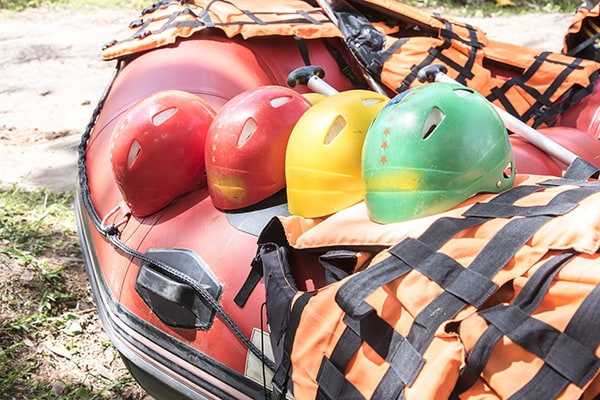
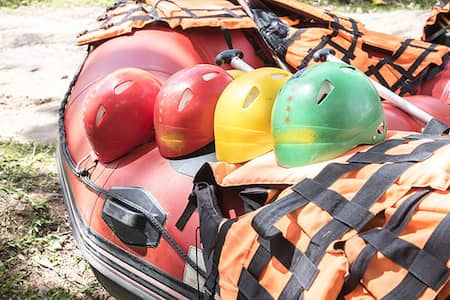
images size changes

diff --git a/wwr/about.html b/wwr/about.html
@@ -12,7 +12,7 @@
 
 <body>
     <header>
-        <img src="images/wwr_logo.png" alt="white water rafting logo">
+        <img src="images/wwr_logo.jpg" alt="white water rafting logo">
         <nav>
             <ul>
                 <li><a href="index.html">Home</a></li>
@@ -35,7 +35,7 @@
             <h2>History</h2>
             <div class="history-content">
                 <p>Lorem ipsum dolor sit amet consectetur adipisicing elit. Sunt obcaecati corrupti cum, unde, eos incidunt optio corporis ad magni accusantium possimus quis ratione minus voluptates ipsam ducimus, animi necessitatibus laborum?</p>
-                <img src="images/wwr_history.jpg" alt="Happy White Water warroirs">
+                <img src="images/history_img.jpg" alt="Happy White Water warroirs">
                 <p>Lorem bobob dolor sit amet, consectetur adipisicing elit. Voluptates officia inventore officiis laudantium corrupti suscipit beatae. Tempora ut totam nostrum, animi quae repudiandae nulla vitae, architecto, veritatis.</p>
             </div>
         </section>
